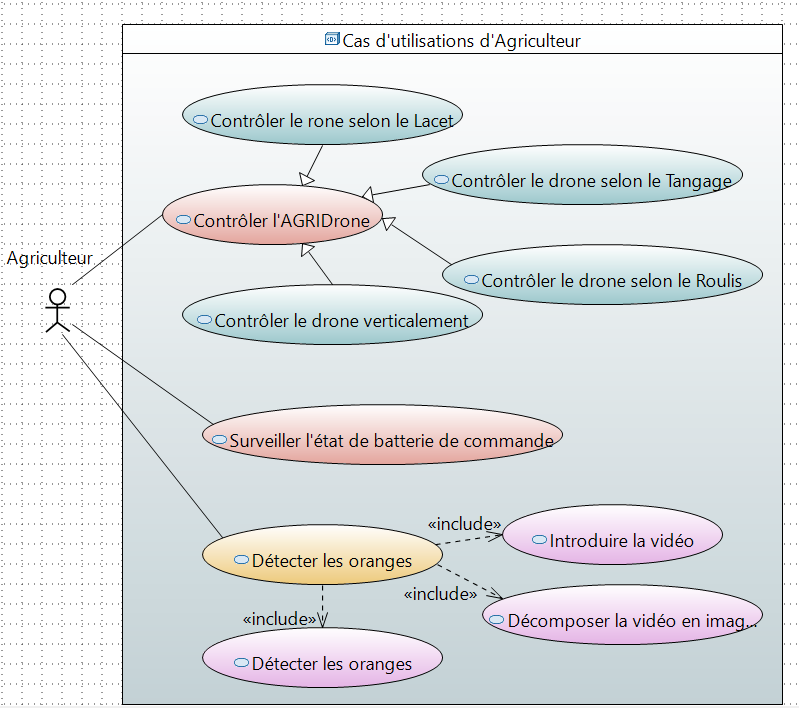
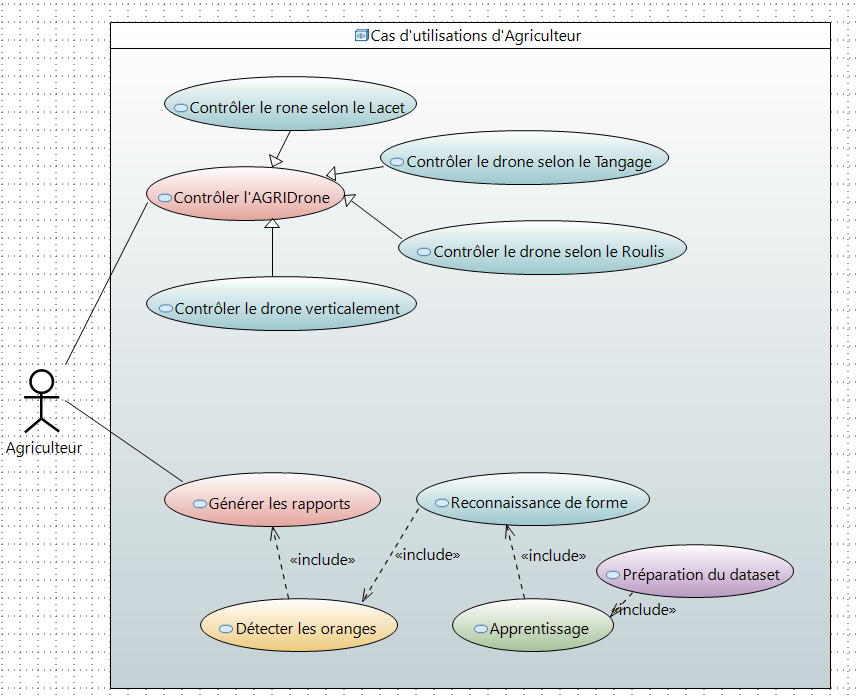
Correction du chapitre 1.

diff --git a/Chaps/Chap1.tex b/Chaps/Chap1.tex
@@ -1,107 +1,86 @@
 
+
 	\chapter{Cadre du projet }
 	\newpage
 	
 	
 	\section{Introduction }
-
+	Dans ce chapitre, nous présenterons le contexte de notre projet en passant tout d'abord par sa  problématique et son objectif. Ensuite, nous détaillerons la méthodologie de gestion de ce projet ainsi que l'analyse des besoins de notre système. Finalement, nous clôturons ce chapitre par l'illustration des diagrammes SysML.
 	
 	\section{Problématique }
-	Depuis des temps immémoriaux, l'agriculture était très importante dans la mesure où elle faisait partie intégrante de la vie humaine et demeure d’une grande importance économique et sociopolitique du fait de sa contribution à la réalisation des objectifs nationaux en matière de sécurité alimentaire, de création de revenus, d’emplois, d’équilibre régional et de gestion des ressources naturelles. Néanmoins ce secteur central a étalé une faiblesse importante mondiale et régionale de compétitivité sur les marchés nationaux et internationaux suite à un manque de la technique et de l'innovation qui reflète une faible production et l'absence de qualité des produits agricoles d'organisations professionnelles bien développée . Les agriculteurs doivent constamment faire des miracles pour trouver des solutions à de nouveaux problèmes. Les défis à relever à l'avenir peuvent être très différents des problèmes rencontrés aujourd’hui. Pour cette raison-là, L'agriculture a connu de nombreuses crises vue qu’ils utilisent les mêmes moyens sans innover de nouvelles technologies ni augmenter sa productivité.
+	Depuis des temps immémoriaux, l'agriculture était très importante dans la mesure où elle faisait partie intégrante de la vie humaine et demeure d’une grande importance économique et sociopolitique du fait de sa contribution à la réalisation des objectifs nationaux en matière de sécurité alimentaire, de création de revenus, d’emplois, d’équilibre régional et de gestion des ressources naturelles. Néanmoins ce secteur central a étalé une faiblesse importante mondiale et régionale de compétitivité sur les marchés nationaux et internationaux suite à un manque de la technique et de l'innovation qui reflète une faible production et l'absence de qualité des produits agricoles d'organisations professionnelles bien développée . Les agriculteurs doivent constamment faire des miracles pour trouver des solutions à de nouveaux problèmes. Les défis à relever à l'avenir peuvent être très différents des problèmes rencontrés aujourd’hui. Pour cette raison-là, l'agriculture a connu de nombreuses crises vue qu’elle utilise les mêmes moyens sans innover de nouvelles technologies ni augmenter sa productivité.
 	
-	Ces dernières années, le monde a été confronté à une baisse importante de la production agricole. Par exemple, Au Brésil, le premier producteur d’oranges dans le monde avec plus de 19 millions de tonnes d'où proviennent plus de la moitié des fruits utilisés pour fabriquer les jus consommés à travers le monde, la situation est particulièrement critique. La production d'oranges risque d'être la plus faible depuis plus de vingt ans, d'après les estimations du département américain de l'Agriculture (Usda)[5]. En Tunisie, la production d'agrumes de la campagne 2017/2018 a fortement chuté à 38,2 \%, soit 346 000 tonnes. Cette baisse de production est due à une baisse du maltais (49\%), de la clémentine (38\%) et du nombril (31\%)[5].
+	Ces dernières années, le monde a été confronté à une baisse importante de la production agricole. Par exemple, au Brésil, le premier producteur d’oranges dans le monde avec plus de 19 millions de tonnes d'où proviennent plus de la moitié des fruits utilisés pour fabriquer les jus consommés à travers le monde, la situation est particulièrement critique. La production d'oranges risque d'être la plus faible depuis plus de vingt ans, d'après les estimations du département américain de l'Agriculture (Usda)[5]. En Tunisie, la production d'agrumes de la campagne 2017/2018 a fortement chuté à 38,2 \%, soit 346 000 tonnes. Cette baisse de production est due à une baisse du maltais (49\%), de la clémentine (38\%) et du nombril (31\%)[5].
 	
-	En plus, récemment avec le covid19 le secteur agricole face à d’autres problèmes et d’autres challenges a cause de cette crise sanitaire. Il a perturbé le fonctionnement de l'agriculture et du système alimentaire en perturbant le processus de production menant au centre de consommation. En raison des restrictions, il y a plus de travailleurs ni des ouvrières dans de nombreux secteurs et domaines, ce qui peut facilement affecter la production et les économies mondiales et régionales. Le confinement des pays et la fermeture des frontières ont une forte incidence sur la rapidité et la flexibilité d’un secteur initiale, l’agriculture, vue que y'a un manque de main d'œuvres et l'absence d'innovations alternatives ce qui peut refléter un ralentissement de la production agricole.
-	
-	\section{Solution proposée }
-	Après avoir étudié attentivement ce sujet et l'observation et l'analyse des problèmes qui résultent de ce sujet. Nous avons bien conclu qu'il faut créé une progression au niveau de ce secteur et crée des solutions qui peuvent augmenter la qualité et la production de l'agriculture et aider les agriculteurs à avoir une progression au niveau de la compétitivité dans ce domaine-là. Aujourd'hui, l'agriculture est un secteur énorme, et donc un autre domaine est nécessaire pour développer les avantages de l'agriculture et obtenir des résultats plus précis, de sorte que l'importance de la technologie doit être prise en compte et ça va permettre d’évoluer l’agriculture afin d’améliorer le quotidien de chaque producteur ainsi que leur rendement. 
-	
-	Ce dernier a besoin d'aide pour connaître ses estimations de production, ce qui n’est pas facile avec la main-d'œuvre. Cela peut aussi prendre du temps, mais avec la technologie, on peut changer la situation, gagner un temps considérable et optimiser le rendement de ses parcelles grâce à ces appareils qui permettent une vue aérienne précise et la collecte de nombreuses données  sans le perdre et offrir aux agriculteurs un regard plus holistique sur leurs fermes et la capacité de vérifier la santé de leur bétail. Les progrès de la technologie agricole peuvent ainsi aider les agriculteurs à mesurer, suivre et améliorer continuellement leur empreinte environnementale et soutenir la rentabilité des exploitations en maintenant une agriculture viable pour les générations futures.
-	
-	Dans ce contexte, nous avons vu que La combinaison de produits à valeur agricole et d’innovation technologique ouvre la voie à un avenir plus vert, plus productif et durable c’est pour cela nous avons mis en place un système innovant focalisé sur l'application d'un drone pour la détection des oranges. Ce drone peut filmer pour réaliser une inspection visuelle des arbres et accéder à des zones compliquées d’accès. Effectivement, cette technique présente plusieurs avantages pour le monde agricole y compris la croissance de la production agricole en évaluant les prévisions de rendement, le suivi ou bien évaluation des cultures, la réduction des risques liés aux cultures, la prévision des catastrophes et l’optimisation des coûts. 
-	Ce système est divisé en deux volets :
-	\begin{itemize}
-		\item  drone 	
-		\item détection des oranges
-	\end{itemize}
-	
-	
+	En plus, récemment avec le covid19 le secteur agricole rencontre d’autres problèmes et d’autres challenges à cause de cette crise sanitaire. Il a perturbé le fonctionnement de l'agriculture et du système alimentaire en perturbant le processus de production menant au centre de consommation. En raison des restrictions, il n'y a plus de travailleurs ni des ouvriers dans de nombreux secteurs et domaines, ce qui peut facilement affecter la production et les économies mondiales et régionales. Le confinement des pays et la fermeture des frontières ont une forte incidence sur la rapidité et la flexibilité d’un secteur initial, l’agriculture, vue qu'il y'a un manque de main d'œuvres et l'absence d'innovations alternatives ce qui peut refléter un ralentissement de la production agricole.
 	\section{Objectif }
-	L'objectif de notre projet de fin d’étude est d’utiliser les nouvelles technologies pour améliorer les performances économiques et environnementales des productions agricoles. Afin de s’organiser de manière appropriée, les agriculteurs ont besoin d’anticiper leur production. Mais le comptage des fruits est une tâche qui prend beaucoup du temps. Notre projet sous le nom « AGRI Drone » - est consacré à optimiser ce temps perdu par le développement d’un système automatisé intégré dans un drone pour le comptage des oranges sur l’arbre. 
+	L'objectif de notre projet de fin d’études est d’utiliser les nouvelles technologies pour améliorer les performances économiques et environnementales des productions agricoles. Afin de s’organiser de manière appropriée, les agriculteurs ont besoin d’anticiper leur production. Mais le comptage des fruits est une tâche qui prend beaucoup du temps. Notre projet sous le nom « AGRIDrone » - est consacré à optimiser ce temps perdu par le développement d’un système automatisé intégré dans un drone pour le comptage des oranges sur l’arbre. 
 	
 	
-	Ce système va mettre au point une méthode de travail plus efficace et bien précis qui utilise l’intelligence artificielle pour permettre aux fournisseurs de produits agricoles à optimiser leurs récoltes et à planifier leurs ventes sur le marché. La technologie des drones pourrait aider les agriculteurs du monde entier à surveiller la croissance de leurs cultures, lutter contre les nuisibles, et bien plus encore. Grâce à la caméra et aux capteurs embarqués, le drone peut mesurer de nombreux indicateurs de l'état et des besoins de la plante . En fait, notre systéme fournit des informations plus précise et une variété de donneés.
+	Ce système va mettre au point une méthode de travail plus efficace et bien précis qui utilise l’intelligence artificielle pour permettre aux fournisseurs de produits agricoles à optimiser leurs récoltes et à planifier leurs ventes sur le marché. La technologie des drones pourrait aider les agriculteurs du monde entier à surveiller la croissance de leurs cultures, lutter contre les nuisibles, et bien plus encore. Grâce à la caméra et aux capteurs embarqués, le drone peut mesurer de nombreux indicateurs de l'état et des besoins de la plante . En fait, notre système fournit des informations plus précises et une variété de données.
 	
 	Bien que le prélèvement ait été exécuté manuellement, les informations recueillies par le drone permet aux agriculteurs d'identifier les zones à surveiller ou à traiter, de déterminer l'intervention la plus appropriée et de réduire la quantité de traitement utilisée. Tout cela sera facile et nous fera gagner de temps non négligeable avec cette nouvelle innovation.
 	
 	
 	
 	\section{Méthodologie de gestion de projet }
+	Cette méthodologie nous permet d'analyser l'environnement de notre projet, d'appliquer des méthodes techniques et d'évaluer l'opportunité jusqu'à l'achèvement de notre travail .
 	\subsection{Choix de méthodologie }
-	Afin d'assurer le bon déroulement des différentes étapes dans notre projet, nous avons choisi la méthode Agile Scrum pour gérer notre travail, concevoir et développer notre système pour des raisons claires est vraiment le processus Scrum s'inscrit parfaitement dans la décomposition de notre projet de fin d'études, qui s'appuie sur des avantages suivants :
+	Afin d'assurer le bon déroulement des différentes étapes dans notre projet, nous avons choisi la méthode Agile Scrum pour gérer notre travail, concevoir et développer nos systèmes pour des raisons claires. Ce processus  s'inscrit parfaitement dans la décomposition de notre projet qui s'appuie sur des avantages suivants :
 	\begin{itemize}
 		\item Plus de flexibilité et de réactivité.
 		\item Traduire et organiser le projet de façon simple, transparente et pragmatique.
 	\end{itemize}
 	
-	\subsection{C'est quoi Scrum }
-	Scrum est la méthode agile la plus utilisée. A l'instar des autres méthodes agiles, Scrum est une démarche de gestion de projet qui fait du client (ou utilisateur) le principal pilote de l'équipe en charge des développements. [6]
 	\subsection{Présentation de la méthodologie scrum }
-	La méthode SCRUM implique que le projet progresse à travers la mise en place de séries de « sprints ». À chaque lancement d’un sprint, une réunion de planification est organisée afin que chaque membre de l’équipe puisse s’engager sur le nombre de tâches qu’il pourra exécuter, ainsi que sur la création du « sprint blacklog ».
-	Chaque jour du sprint, tous les membres de l’équipe (ainsi que le responsable produit et le SCRUM Master) doivent assister à la réunion SCRUM quotidienne. Cette dernière ne doit pas durer plus de 15 minutes, et permet aux membres de l’équipe de partager avec les autres ce qu’ils ont fait la veille, ce sur quoi ils travaillent le jour même, ainsi que l’identification de tout problème pouvant entraver le bon déroulement du sprint. Cette réunion permet ainsi de synchroniser tous les membres de l’équipe.
+	Cette méthodologie est agile qui consiste à avoir une équipe soudée orientant le projet au fil de son avancement afin d’atteindre un but. Cette approche est à la fois dynamique et productive, engendre la réalisation des fonctionnalités par itération en incluant la participation du client. Chaque itération peut durer de deux à quatre semaines, à la fin de chaque sprint un produit fonctionnel doit être livré. En effet, Scrum définit trois rôles qui sont :
+	\subsubsection{Product owner }
+	Un Personne qu'ayant la responsabilité de produire et de maintenir à jour le carnet de produit. C'est lui qui détermine les priorités et qui prend les décisions d'orientation du projet .
+	\subsubsection{Scrum master  }
+	Son les Membre de l'équipe dont l'objectif principal est de la protéger des perturbations extérieures. Il est complètement transparent pour la communication entre l'équipe et les clients et n'a aucun pouvoir hiérarchique sur l'équipe. C'est en revanche un facilitateur pour les problèmes non techniques de l'équipe .
+	\subsubsection{L’equipe de projet  }
+	Contient généralement de 2 à 10 développeurs. Elle regroupe tous les rôles habituellement nécessaires à un projet, à savoir l’architecte, le concepteur, le développeur, le testeur, etc. Elle est « auto organisée » et elle reste inchangée pendant toute la durée du sprint.
 	
+	La figure ci-dessous présente le déroulement de la gestion de projet par Scrum.
 	
-	La fin d’un sprint est marquée par une session de débriefing permettant de présenter le travail achevé au responsable produit, et de partager des informations pouvant influer sur le sprint suivant.[7]
-		\begin{figure} [h]
+	\begin{figure} [H]
 		\begin{center}
 			\centering
-			\includegraphics[width=1.1\linewidth]{Images/Méthode Scrum}
+			\fbox{\includegraphics[width=0.67\linewidth]{Images/Méthode Scrum}}
 		\end{center}
-		\caption{Méthode scrum}
+		\caption{Le déroulement de la gestion de projet}
 	\end{figure}
-	
-	\subsubsection{Product owner }
-	Personne ayant la responsabilité de produire et de maintenir à jour le carnet de produit. C'est lui qui détermine les priorités et qui prend les décisions d'orientation du projet .
-	\subsubsection{Scrum master  }
-	Membre de l'équipe dont l'objectif principal est de la protéger des perturbations extérieures. Il est complètement transparent pour la communication entre l'équipe et les clients et n'a aucun pouvoir hiérarchique sur l'équipe. C'est en revanche un facilitateur pour les problèmes non techniques de l'équipe .
-	\subsubsection{Product backlog  }
-	Liste des fonctionnalités, des fonctions, des exigences, des améliorations et des correctifs qui sont nécessaires à l'évolution du produit , celui-ci est dynamique sur tout le cycle de vie du produit.
-	\subsubsection{	Sprint backlog }
-	Liste des tâches à accomplir pendant un sprint. Elles correspondent à la réalisation des éléments de carnet de produit affectés au sprint .
-	\subsubsection{Sprint }
-	Nom d'une itération dans Scrum. Cette itération dure 1 mois maximum en théorie, mais en pratique entre 2 et 4 semaines. Pendant une itération, l'équipe doit développer la liste d'éléments du carnet de produit qui a été définie au début du sprint.
+	\begin{itemize}
+		
+		
+		\item Backlog produit : Sont les besoins priorisés par le Product Owner et évalués par l’équipe.
+		\item Sprint Backlog : Extrait du Backlog produit.
+		\item Sprint : Cette itération dure 1 mois maximum en théorie, mais en pratique entre 2 et 4 semaines.
+	\end{itemize}
 	\section{Analyse des besoins }	
+	L'analyse des besoins est une des premières techniques de gestion de projet à mettre en oeuvre.
+	
 	Cette partie sera utilisée pour jeter les bases de la collecte des besoins du système avant d'être réalisée.
-	
-	
 	Dans le but de préciser les besoins des utilisateurs de notre système, nous présenterons les besoins fonctionnels ainsi que les besoins non fonctionnels.
 	
 	\subsection{Les besoins fonctionnels}
-	Notre projet consiste à développer un drone doit survoler la parcelle tout en inspectant les arbres afin de détecter pour chaque arbre les oranges présentes.
-	Les besoins fonctionnels et les attentes vis-à-vis notre drone varient d'un acteur à un autre. 
-	Pour cela, nous avons décrit pour chaque acteur les besoins fonctionnels qui lui sont associés:
+	Notre projet consiste à développer un drone qui doit survoler la parcelle tout en inspectant les arbres afin de détecter pour chaque arbre les oranges présentes.
 	
-	
+	Parmi les différents besoins fonctionnels de notre système, nous citons:
 	\begin{itemize}
-		\item Les Besoins pilote :
-		
-		
-		Le rôle de pilote consiste à paramétrer le contrôleur de vol APM 2.8 (Calibrer le magnétomètre, l'accéléromètre, la radiocommande et les contrôleurs de vitesses ESC), Configurer la Radiocommande (changer le mode d'utilisation, sélectionner le type de model d'avions, inverser les fonctionnements des servos, calibrer le channel 6 pour les modes de vol), Surveiller le niveau d'état de batterie de commande,  et Contrôler l’AGRIDrone (Déplacer le drone verticalement, selon le Roulis, Tangage, 
-		Lacet) 
-		
-		\item Les besoins d'Agriculteur :
-		
-		Le rôle d'agriculteur consiste à contrôler l’AGRIDrone (Contrôler le drone verticalement, selon le Roulis, Tangage, Lacet)
-		
-		
-		
-	\end{itemize}	
+		\item Le paramétrage du contrôleur de vol. 
+		\item  La configuration de la radiocommande. 
+		\item Le contrôle de l'AGRIDrone.
+		\item La génération des rapports. 
+	\end{itemize} 
+	
+	En plus, les besoins fonctionnels et les attentes vis-à-vis notre AGRIDrone varient d'un acteur à un autre. Pour celà, nous allons détailler le rôle de chaque acteur en se basant sur des diagrammes de cas d'utilisation \ref{Cas d'utilisation}.
 	
 	\subsection{Les besoins non fonctionnels}
-	Après avoir cité les différents besoins fonctionnels, plusieurs besoins non fonctionnels de drone ont été définis.
-	Les besoins non fonctionnels sont liés aux contraintes dont il faut tenir compte pour appliquer une solution adéquate.
+	Après avoir cité les besoins fonctionnels, nous présentons
+	les besoins non fonctionnels de drone qui sont liés aux contraintes dont il faut tenir compte pour appliquer une solution adéquate et qui ont été définis tels que:
 	\begin{itemize}
-		\item Stabilité :
+		\item La stabilité :
 		
 		
 		Dans le cadre de ce travail, le drone devra être stable, l'AGRIDrone doit être robuste en terme de repositionnement automatique aprés une perturbation.	
@@ -111,116 +90,107 @@
 		
 		L’AGRIDrone doit permettre des nouvelles fonctionnalités.
 		
-		\item Portée : 
+		\item La portée : 
 		
 		
-		On doit pouvoir contrôler le drone jusqu'à 100m
+		On doit pouvoir contrôler le drone jusqu'à 500m
 		
 		
-		\item Maintenabilité :
-		
+		\item La maintenabilité : 
 		
 		Subir à une intervention de maintenance en terme de modifications et corrections des erreurs.
+		\end {itemize}
+		\section{Diagramme d’exigence }
+		Après avoir étudié attentivement les besoins de  notre système, nous avons effectué sa modélisation à travers le diagramme d'exigence permettant de décrire graphiquement les capacités à réaliser et les contraintes qui doivent être dépassées.
+		
+    	Une exigence comporte : 
+		\begin{itemize}
+			\item Un intitulé 
+			
+			\item Un texte descriptif 
+			
+			\item Un identifiant unique
 		\end{itemize}
 		
-	
+		\begin{figure}[H] 
+			\begin{center} 
+				\centering
+		\hspace*{-2cm} \fbox{\includegraphics[width=1.26\linewidth]{Images/Diagramme d'exigence}}
+				
+				\caption{Diagramme d'exigence}
+			\end{center}
+			\end {figure}
 		
-	
-\newpage
-	\section{Diagramme d’exigence }
+			\section{Diagrammes des cas d'utilisation }\label{Cas d'utilisation}
+			
+			Cette structure est bien adaptée pour décrire de manière claire les fonctions et les objectifs les plus importants d’un système. Pour cette raison que l’élaboration d’un diagramme de cas d’utilisation est souvent l’une des premières étapes lors de la conception de système ou de la planification de nouveaux processus métier. Cela permet de visualiser facilement et clairement quels cas d’utilisation doivent être pris en compte dans la conception pour que les acteurs atteignent les objectifs escomptés. 
+			
+			Nous illustrons dans la suite les principaux diagrammes de cas d'utilisation.
+			
+			
+			\subsection{Cas d'utilisation global }
+			
+			Nous décrivons en tant qu'utilisateurs ce diagramme  qui donne un aperçu global sur le rôle de chaque acteur afin de comprendre l'idée générale du projet.
+			
+			
+			\begin {figure} [H]
+			\begin{center}
+	\centering
+\hspace*{-1.3cm}\fbox{\includegraphics[width=1.2\linewidth]{Images/Diagramme de cas d'utilisation globale}}
+			\end{center}
+		    \caption{Diagramme de cas d'utilisation global}
+	        \end {figure}
+			
+			Ci-dessous nous exposons quelques cas d'utilisation afin de mieux comprendre les caractéristiques contenues dans chaque cas.
+			
+			
+			\subsection{Cas d'utilisation Pilote}
+			Nous montrons à travers la figure \ref{fig:D.P} le diagramme de cas d’utilisation du pilote qui permet de déterminer les principales fonctions qu’il doit effectuer. À savoir, en paramétrant le contôleur de vol, cet acteur a la possibilité de calibrer les contrôleurs de vitesses, la radiocommande, l'accéléromètre, le magnétomètre et régler les modes de vol. La deuxième tâche consiste à configurer la radiocommande d'où la possibilité de changer le mode d'utilisation, sélectionner le type de modèle d'avions, inverser les fonctionnements du servos et sélectionner le type de modulation. Le pilote doit aussi contrôler l'AGRIDrone en le déplaçant verticalement, selon le lacet, le tanguage et le roulis.
+			\begin {figure}[H] 
+			\begin{center} 
+				\centering
+		\hspace*{-2cm}		\fbox{\includegraphics[width=1\linewidth]{Images/Diagramme de cas d'utilisation pilote}}
+			\end{center}
+			
+			\caption{\label{fig:D.P}Diagramme de cas d'utilasation pilote}
+			\end {figure}
+			
+		
+			\subsection{Cas d'utilisation d'agriculteur }
+			La figure \ref{fig:D.A} décrit le cas d’utilisation d'agriculteur qui peut contrôler l’AGRIDrone avec les mêmes procédures que suit le pilote et générer les rapports après avoir détecter les oranges. Cette opération à son tour se produit à condition que la reconnaissance de forme s'établit. 
+			\begin{figure}[H] 
+				\begin{center} 
+					\centering
+			\hspace*{-0.7cm}	\fbox{\includegraphics[width=1\linewidth]{Images/Diagramme de cas d'utilisation agriculture}}
+						\end{center}
+				
+				\caption{\label{fig:D.A}Diagramme de cas d'utilisation d'agriculteur}	
+				
+				\end {figure}
+				\section{Diagramme de bloc de définition }
+				Le diagramme de définition de bloc permet d’exprimer la structure d’un système, d’un sous-système ou d’un composant. Ces blocs peuvent représenter des entités physiques ou logiques qui sont décomposables et peuvent posséder des propriétés ainsi qu'un comportement.
+				
+				Notre AGRIDrone  est constitué de plusieurs éléments. Il existe deux principaux blocs: Le quadrirotor et le système de détection.
+				
+				Le quadrirotor est lié à une alimentation électrique qui  délivre une tension de 12V au contrôleur de vitesse. Ce dernier transmet 5V au contrôleur de vol qui l'envoi à son tour au récepteur de la radiocommande afin de l'allumer. Ce composant est en attente du signal radio qui va-t-être transmis par l'émmeteur. Dès que ce signal est reçu, le récepteur se charge de le décoder puis l'envoyer au contôleur de vol en tant que signal PWM. Par la suite, il sera transmis au contrôleur de vitesse pour effectuer le démarrage des moteurs qui sont chargés de la rotation des hélices. Le châssis est aussi un élément du quadrirotor qui supporte tous ses composants sauf l'émetteur de la radiocommande.
+				
+				Concernant le système de détection, il est aussi en relation avec l'alimentation électrique. Cette dernière fournit une tension de 12V à la carte électronique qui délivre 5V à la caméra.
+				
+					\begin{figure}[H] 
+					\begin{center} 
+						\centering
+					\hspace*{-2.78cm}	\fbox{\includegraphics[width=1.4\linewidth]{Images/Diagramme de définition de bloc}}
+					\end{center}
+					
+					\caption{Diagramme de définition de bloc}
+					
+					\end {figure}
+				
+			   \section{Conclusion}
+				Le long de ce chapitre, nous avons exposé la problématique à partir de laquelle nous avons créé l'objectif de notre projet et nous avons montré la phase de la méthodologie de travail ,de la spécification des besoins et de la conception des diagrammes SysML.
+				
+				Dans le chapitre suivant, nous présentons l'état de l'art de notre système.
 
-Une exigence permet de spécifier une capacité ou une contrainte qui doit être satisfaite par un système[13]. 
-Elle peut définir une fonction que le système devra réaliser ou une condition de performance, de fiabilité, de sécurité… 
-Une exigence comporte : 
-\begin{itemize}
-	\item Un intitulé 
-	
-	
-	\item Un texte descriptif 
-	
-	
-	\item Un identifiant unique
-\end{itemize}
-Nous expliquons ci-dessous les différentes exigences qui présentent notre systéme:
-\begin{figure}[h] 
-	\begin{center} 
-		\centering
-		\includegraphics[width=1.2\linewidth]{Images/Diagramme d'exigence}
-		\caption{Diagramme d'exigence}
-	\end{center}
-\end{figure}	
-\section{Diagrammes des cas d'utilisation }
-Cette structure est bien adaptée pour décrire de manière claire les fonctions et/ou les objectifs les plus importants d’un système[15]. Pour cette raison que l’élaboration d’un diagramme de cas d’utilisation est souvent l’une des premières étapes lors de la conception de système ou de la planification de nouveaux processus métier. 
-
-		\subsection{Cas d'utilisation global }
-		
-		En se basant sur les fonctionnalités décrites ci-dessous nous précison dans ce paragraphe le diagramme de cas d'utilisation globale de notre projet. Ce diagramme est général, il traite les besoins un par un et regroupe un ensemble de fonctionnalités dans un seul cas qui peut être à son tour détaillé afin de mieux le comprendre.
-		
-	
-		\begin{figure} [h]
-		\begin{center}
-			\centering	
-		\includegraphics[width=0.9\linewidth]{Images/Diagramme de cas d'utliisation global}	
-		\end{center}
-		\caption{Diagramme de cas d'utilisation global}
-		\end{figure}
-		\newpage
-		
-		La figure précédente décrit d'une manière générale les différents acteurs du système ainsi que les fonctionnalités principales dont ils disposent.
-		Ci-dessous, nous montrons quelques cas d'utilisation afin de mieux comprendre les fonctions attribuées à chaque acteur.
-	
-		\subsection{Cas d'utilisation Pilote}
-		Nous montrons à travers la figure suivante le diagramme de cas d’utilisation du pilote qui permet de déterminer les principales fonctions qu’il doit effectuer. A savoir, en paramètrant le contôleur de vol, cet acteur a la possibilité de calibrer les contrôleurs de vitesses, la radiocommande, l'accéléromètre, le magnétomètre et régler les modes de vol sur le channel 5. Le pilote doit contrôler l'AGRIDrone en le déplacent verticalement, selon le lacet, le tanguage et le roulis.En plus, il surveille l'état de batterie de commande. 
-		
-		\begin{figure}[h] 
-		\begin{center} 
-			\centering
-		\includegraphics{Images/Diagramme de cas d'utilisation pilote}
-		\end{center}
-		
-		\caption{Diagramme de cas d'utilasation pilote}
-		\end{figure}
-	
-		\subsection{Cas d'utilisation d'agriculteur }
-		
-		\begin{figure}[h] 
-		\begin{center} 
-			\centering
-			\includegraphics[width=1\linewidth]{Images/Diagramme de cas d'utilisation agriculture}
-		\end{center}
-		
-		\caption{Diagramme de cas d'utilisation d'agriculteur}
-		\end{figure}
-		La figure au dessus décrit le cas d’utilisation d'agriculteur qui permet de contrôler l’AGRIDrone et surveiller le niveau d'état de batterie de commande.
-	
-\section{Choix d'outil de modélisation }
-Avant de commencer la modélisation de notre projet, nous avons choisi un logiciel permettant de réaliser des diagrammes SysML. Après  quelques  recherches  nous avons   sélectionné:
-\begin{itemize}
-	\item Visual Paradigm Online ("VP Online") est un outil de création de diagrammes basé sur le Web qui prend en charge un grand nombre de diagrammes commerciaux et techniques[11]. Cet outil a été choisi pour travailler sur le diagramme d'exigence également sur le diagramme de définition de bloc.
-	
-	\begin{figure} [h]
-		\begin{center}
-			\centering	
-			\includegraphics[width=0.8\linewidth]{Images/Visual Paradigm}
-		\end{center}
-		
-		\caption{Vue généraliste de Visual Paradigm}
-	\end{figure}
-	
-	
-	\item Eclipse Papyrus ™ fournit un environnement intégré consommable par l'utilisateur pour l'édition de tout type de modèle EMF et en particulier pour la prise en charge d'UML et des langages de modélisation associés tels que SysML et MARTE[12]. Cet outil a été sélectionné pour travailler sur les diagrammes des cas d'utilisations.
-\end{itemize}
-\begin{figure} [h]
-	\begin{center}
-		\centering	
-		\includegraphics[width=0.8\linewidth]{Images/papyrus}
-	\end{center}
-	\caption{Vue généraliste de Papyrus}
-\end{figure}	
-\section{Conclusion}
-	
-
-	
 
 	
 

diff --git a/Rapport.tex b/Rapport.tex
@@ -1,10 +1,22 @@
-\documentclass[a4paper,12pt]{report}
+\documentclass[a4paper,12pt]{book}
 \usepackage{graphicx}
+\usepackage{float}
 \usepackage[T1]{fontenc}
 \usepackage[utf8]{inputenc}
-
-
 \usepackage[french]{babel}
+\usepackage[belowskip=-10pt,aboveskip=10 pt]{caption}
+\setlength{\intextsep}{20pt plus 2pt minus 2pt}
+\setlength{\belowcaptionskip}{-15pt}
+\usepackage{fancyhdr}
+\lhead{ISET BEJA}
+\cfoot{}
+\rhead{
+}
+\lfoot{Chapitre1: Cadre de projet }
+\rfoot{\thepage}
+\renewcommand{\headrulewidth}{1mm}
+\renewcommand{\footrulewidth}{1mm}
+\pagestyle{fancy}
 
 
 
